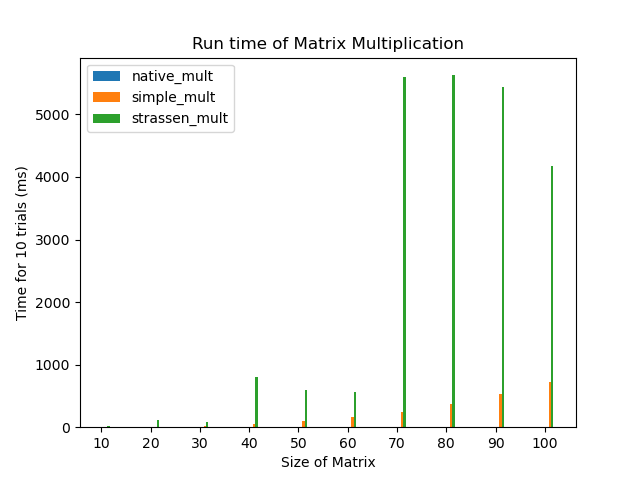
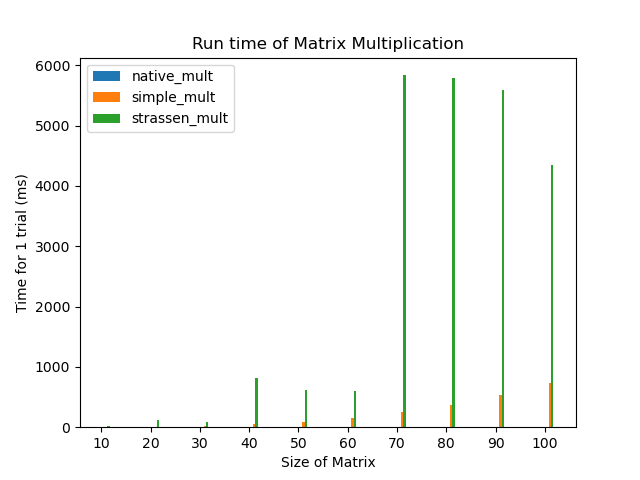
323

diff --git a/Assignments/Assignment3/A_Bhuiyan_Assgn3.py b/Assignments/Assignment3/A_Bhuiyan_Assgn3.py
@@ -36,7 +36,6 @@ def simple_mult(m, n):
     return temp
 
 # Ref https://www.geeksforgeeks.org/strassens-matrix-multiplication/
-# Ref https://medium.com/@ananyasingh1618/strassens-multiplication-matrix-62bbb10225e6
 # From # From https://www.interviewbit.com/blog/strassens-matrix-multiplication/
 def strassen_mult(m1, m2):
     if len(m1) == 1 or len(m2) == 1:
@@ -80,7 +79,7 @@ def plot_time(dict_matrixLst, sizes, matrixLst, trials):
     plt.legend()
     plt.title("Run time of Matrix Multiplication")
     plt.xlabel("Size of Matrix")
-    plt.ylabel("Time for 10 trials (ms)")
+    plt.ylabel("Time for 1 trial (ms)")
     plt.savefig("Assignments/Assignment3/Assignment3.png")
     plt.show()
 

diff --git a/Assignments/Assignment2/A_Bhuiyan_Assgn2.py b/Assignments/Assignment2/A_Bhuiyan_Assgn2.py
@@ -348,9 +348,10 @@ def radix_sort(arr):
         exp *= 10
 
     return arr
-    
+
+
+# Ref https://www.geeksforgeeks.org/python-program-for-gnome-sort/ 
 # From https://rosettacode.org/wiki/Sorting_algorithms/Gnome_sort#Python
-# From https://www.geeksforgeeks.org/python-program-for-gnome-sort/
 def gnome_sort(arr):
 	i,j,size = 1,2,len(arr)
 	while i < size:
